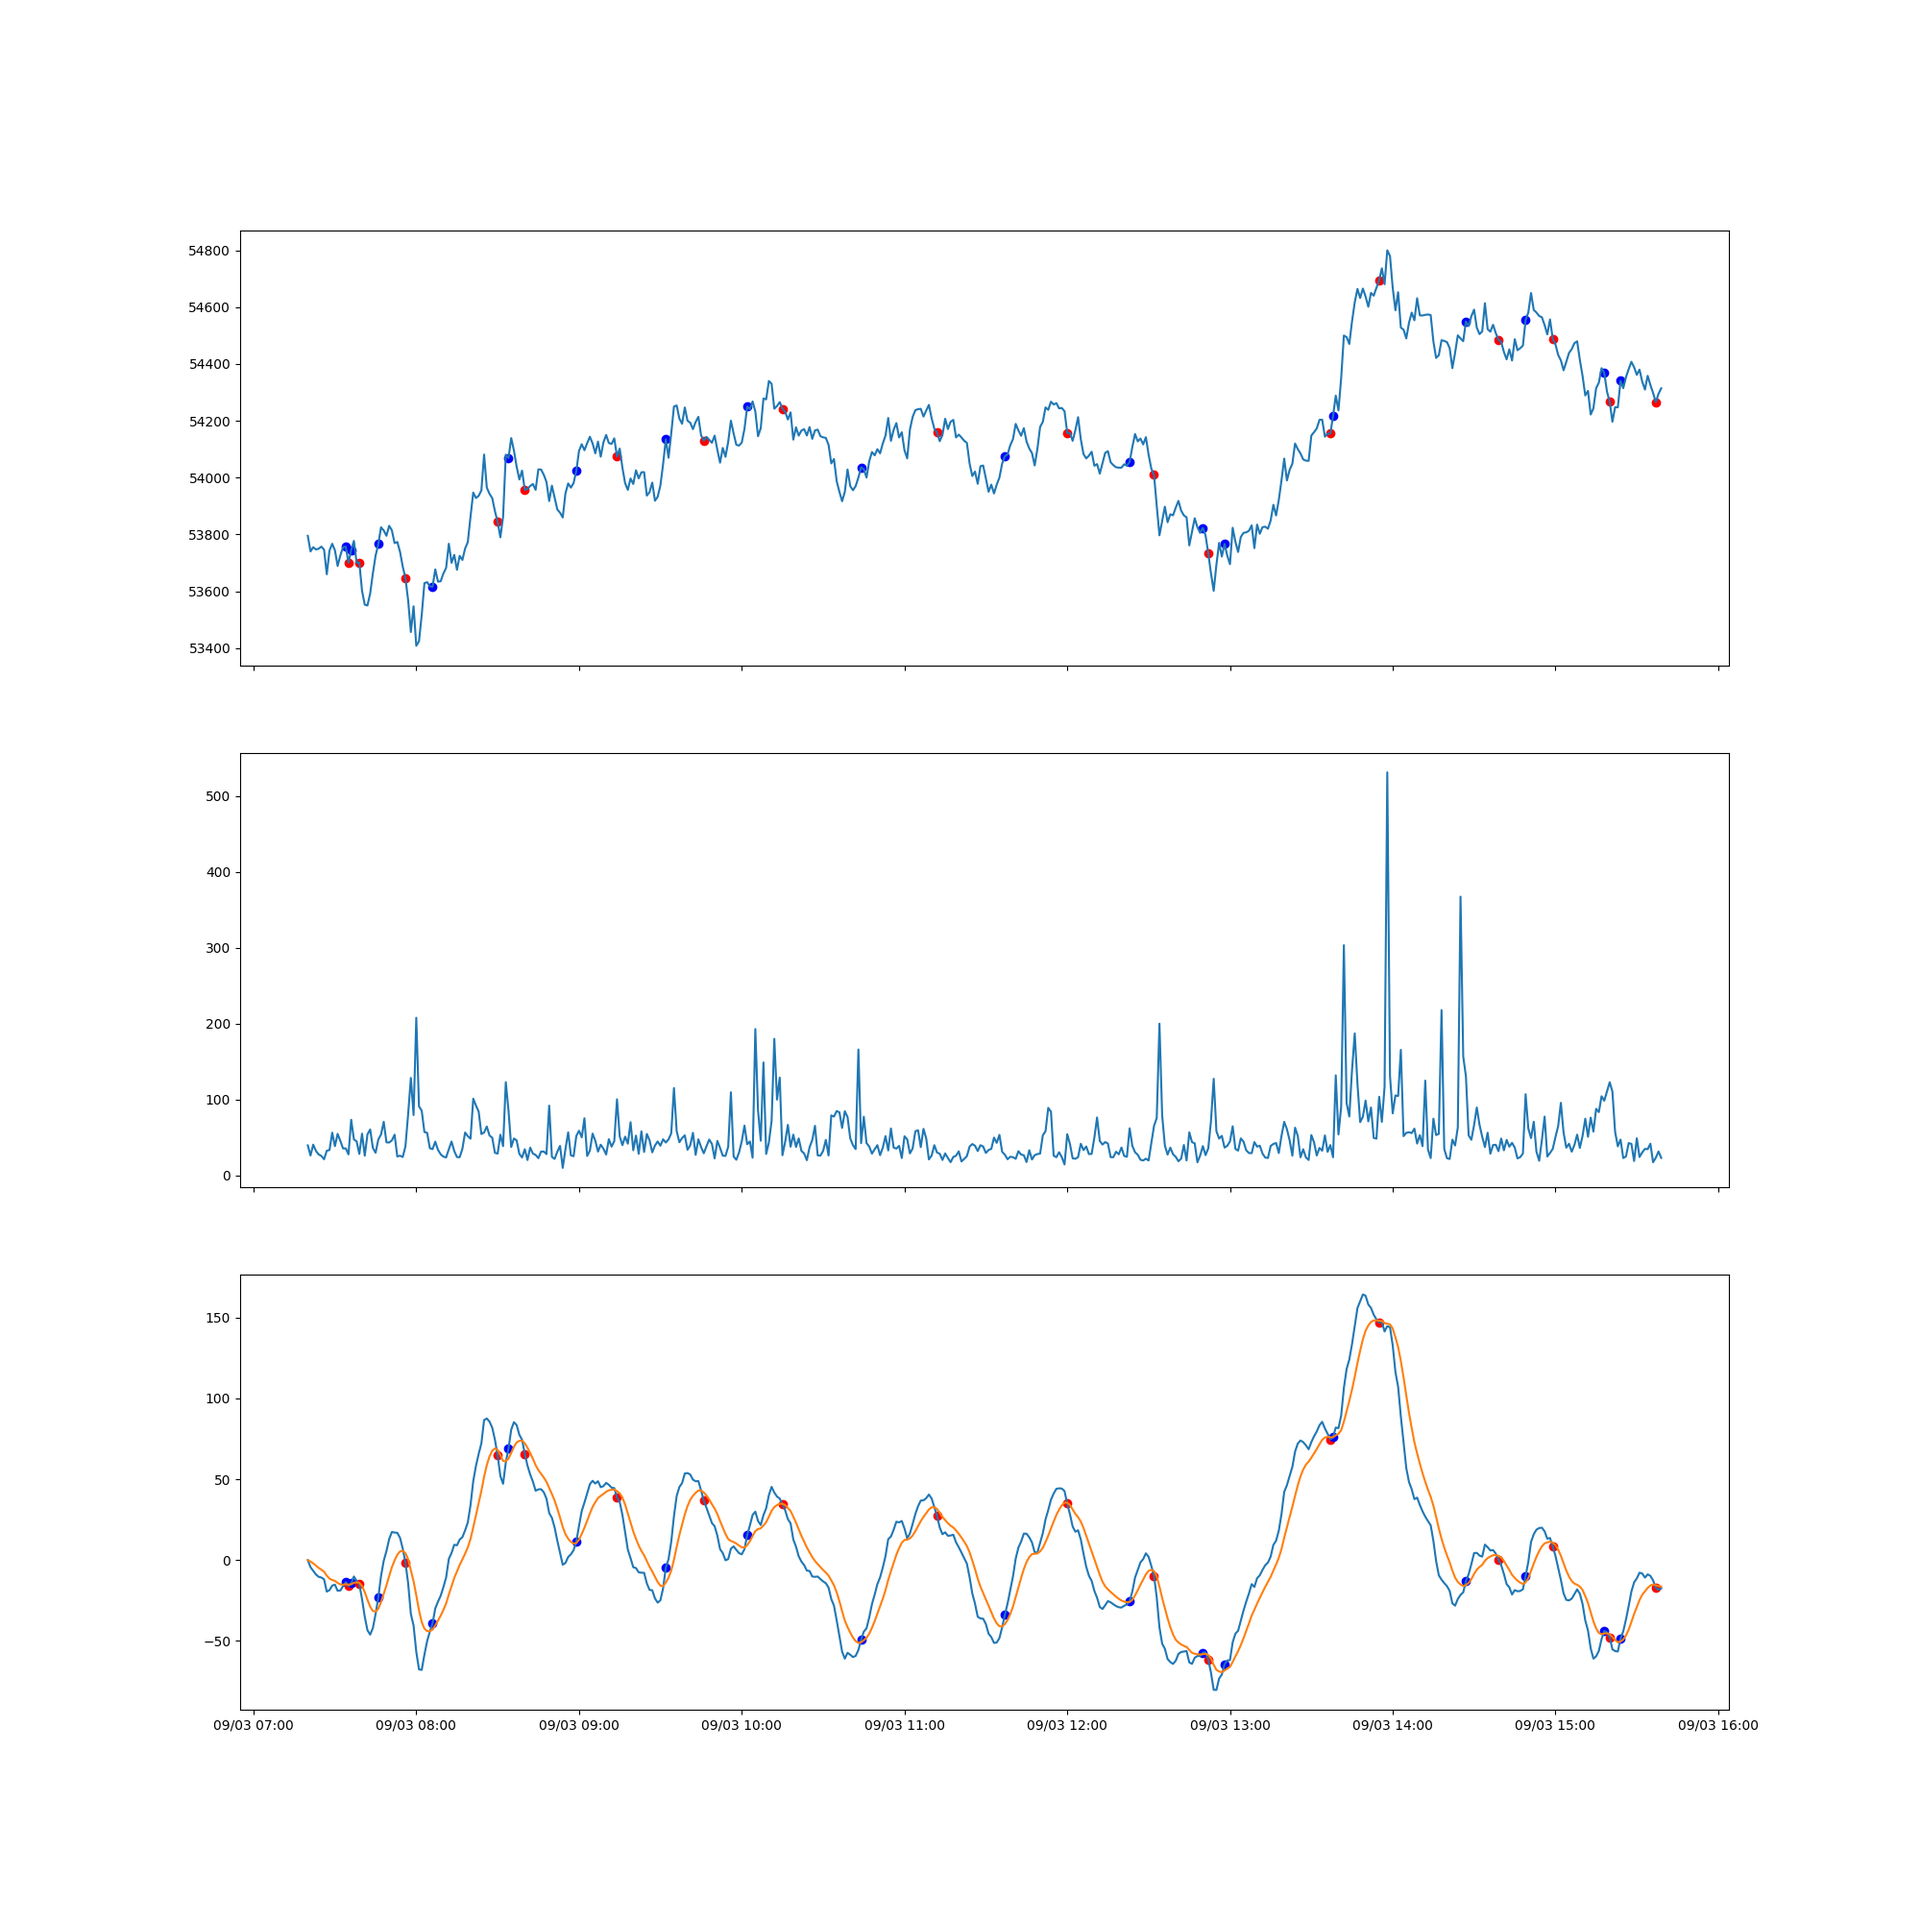
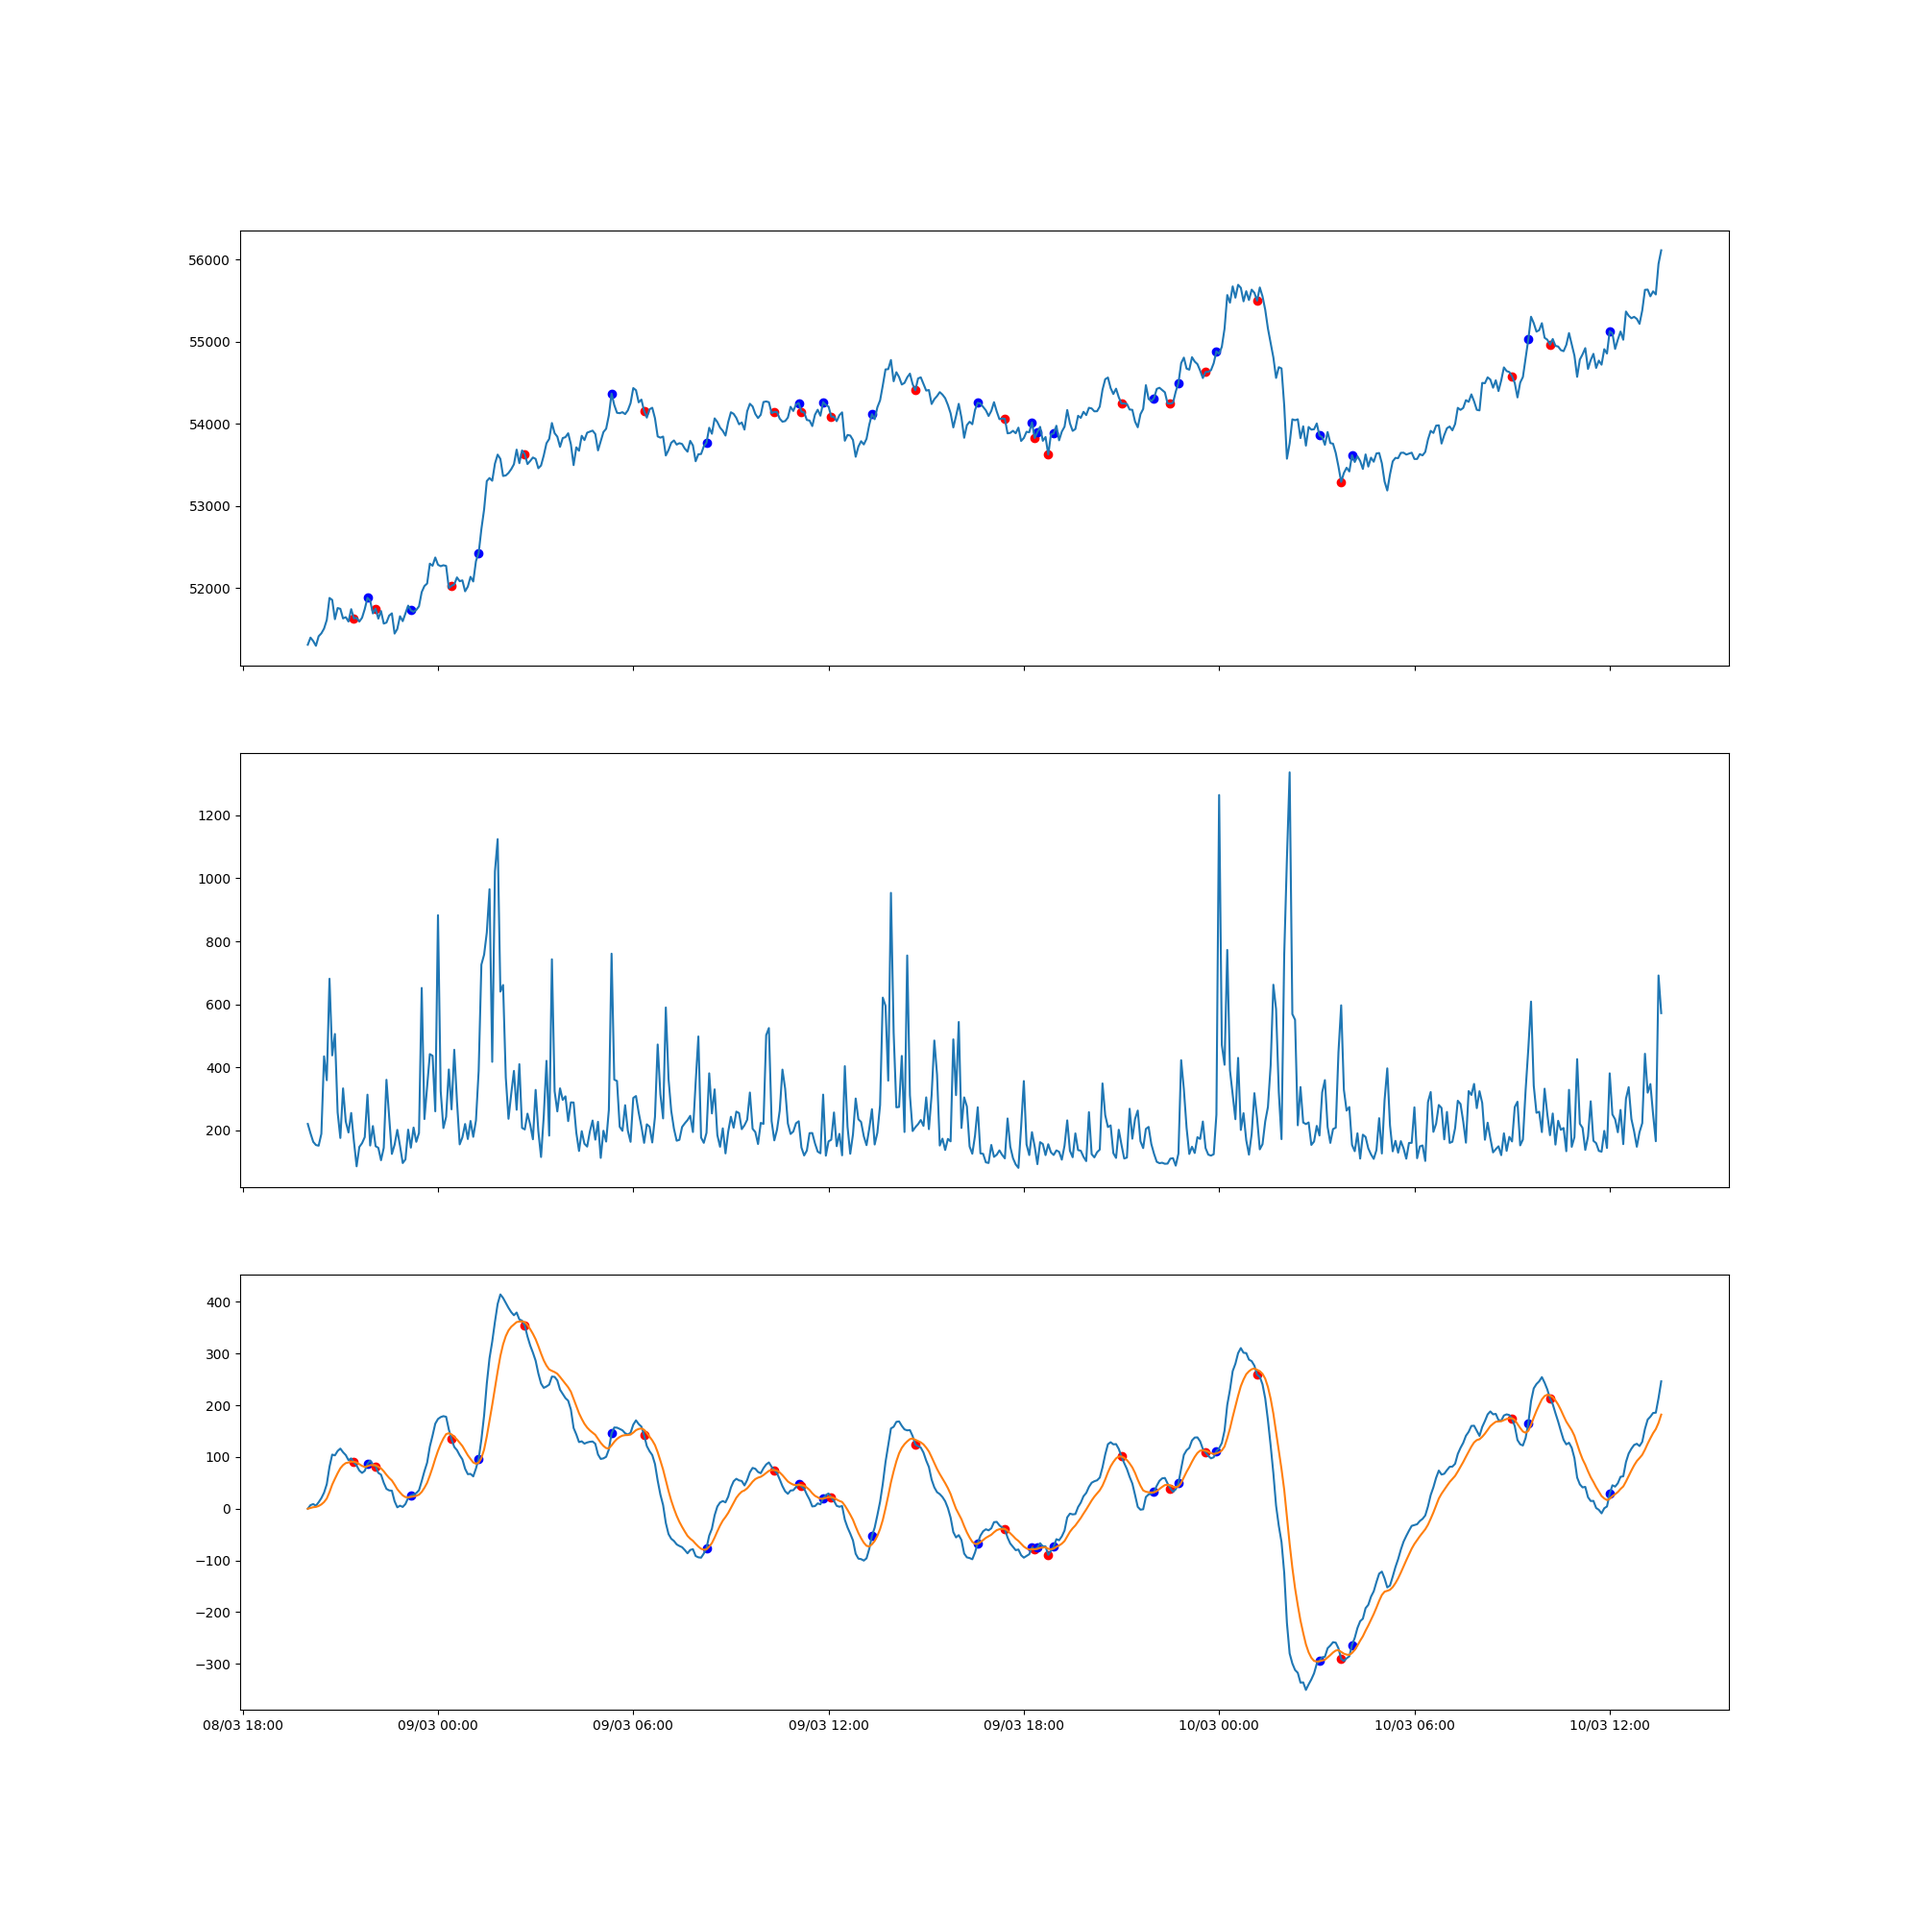
Main scripted fixed, now in 5 minutes and checking from second 10

diff --git a/src/main.py b/src/main.py
@@ -2,6 +2,7 @@ import crypto
 import twitter
 import datetime
 import pickle
+import time
 
 def set_last_buy_balance(value):
 	global last_buy_balance
@@ -17,7 +18,7 @@ def buy():
 	set_last_buy_balance(crypto.get_balance())
 	trade = crypto.buy()
 	print("💵 Bought $BTC@{:.2f}".format(trade['price']))
-	twitter.tweet("🤞 I bought {} $BTC for {:.2f}$ at {:.2f}$.\n💵 My current balance is {:.2f}$.".format(
+	twitter.tweet("🤞 I bought {} $BTC for {:.4f}$ at {:.2f}$.\n💵 My current balance is {:.2f}$.".format(
 		trade['amount'],
 		trade['cost'],
 		trade['price'],
@@ -36,7 +37,7 @@ def sell():
 	profit_percentage = profit / last_buy_balance * 100
 	if (profit > 0):
 		print("📈🚀 Profit: +{:.2f}$, +{:.2f}%".format(profit, profit_percentage))
-		twitter.tweet("🚀 I sold my $BTC at {}$ for {}$!\n📈 I won +{}$ (+{}%).\n💵 My current balance is {:.2f}$.".format(
+		twitter.tweet("🚀 I sold my $BTC at {:.2f}$ for {:.2f}$!\n📈 I won +{:.2f}$ (+{:.2f}%).\n💵 My current balance is {:.2f}$.".format(
 			trade['price'],
 			trade['cost'],
 			profit,
@@ -44,8 +45,8 @@ def sell():
 			balance
 		))
 	else:
-		print("📉😕 Loss: -{:.2f}$, -{:.2f}%".format(profit, profit_percentage))
-		twitter.tweet("😕 I sold my $BTC at {}$ for {}$!\n📉 I loss -{}$ (-{}%).\n💵 My current balance is {:.2f}$.".format(
+		print("📉😕 Loss: {:.2f}$, {:.2f}%".format(profit, profit_percentage))
+		twitter.tweet("😕 I sold my $BTC at {:.4f}$ for {:.4f}$!\n📉 I lost {:.2f}$ ({:.2f}%).\n💵 My current balance is {:.2f}$.".format(
 			trade['price'],
 			trade['cost'],
 			profit,
@@ -58,8 +59,9 @@ def check_macd():
 	global last_buy_balance
 
 	data = crypto.get_live_data()
-	should_buy = data.iloc[-1]['crossover_buy']
-	should_sell = data.iloc[-1]['crossover_sell']
+	print(data)
+	should_buy = data.iloc[-1]['crossover_buy'] or data.iloc[-2]['crossover_buy']
+	should_sell = data.iloc[-1]['crossover_sell'] or data.iloc[-2]['crossover_sell']
 	print("last_buy_balance", last_buy_balance)
 	print("should_buy", should_buy)
 	print("should_sell", should_sell)
@@ -71,20 +73,28 @@ def check_macd():
 		buy()
 	crypto.plot_data(data)
 
-print("ℹ Connecting to the exchange...")
+print("ℹ  Connecting to the exchange...")
 crypto.connect()
-print("ℹ Connecting to Twitter...")
+print("ℹ  Connecting to Twitter...")
 twitter.connect()
 print("✅ Connected to the exchange and Twitter")
 
 # Globals
 try:
 	last_buy_balance = pickle.load(open("./data/last_buy_balance.pickle", "rb"))
+	if (last_buy_balance != None):
+		print("❗ The script has been interrupted with an open position")
 except:
 	set_last_buy_balance(None)
 
+# sell()
+# exit()
+
 while True:
 	current_time = datetime.datetime.now()
-	if (current_time.second % 30 == 0 and current_time.minute % 1 == 0 and current_time.microsecond == 0):
-		print("ℹ Checking for {}".format(current_time))
-		check_macd()
+	if (current_time.second == 10 and current_time.minute % 1 == 0 and current_time.microsecond == 0):
+		while True:
+			current_time = datetime.datetime.now()
+			print("ℹ  Checking for {}".format(current_time))
+			check_macd()
+			time.sleep(80 - datetime.datetime.now().second)

diff --git a/src/crypto.py b/src/crypto.py
@@ -7,6 +7,7 @@ import ccxt
 import json
 import matplotlib.pyplot as plt
 import matplotlib.dates as mdates
+import time
 
 exchange = None
 
@@ -16,11 +17,21 @@ def connect():
 	exchange = ccxt.binance(creds['binance'])
 
 def get_balance():
-	return exchange.fetch_balance()['USDT']['total']
+	try:
+		return exchange.fetch_balance()['USDT']['total']
+	except:
+		print("❗ Unable to fetch balance, retrying in 10 seconds")
+		time.sleep(10)
+		return get_balance()
 
 def get_live_data():
-	# Fetch latest data
-	candles = np.array(exchange.fetch_ohlcv("BTC/USDT", '1m'))
+	try:
+		# Fetch latest data
+		candles = np.array(exchange.fetch_ohlcv("BTC/USDT", '5m'))
+	except:
+		print("❗ Unable to fetch live data, retrying in 10 seconds")
+		time.sleep(10)
+		return get_live_data()
 	
 	# Format data into a dataframe
 	data = pd.DataFrame()
@@ -75,8 +86,18 @@ def buy():
 	price = get_live_data().iloc[-1]['close']
 	amount = (balance * proportion) / price
 	amount = exchange.amount_to_precision("BTC/USDT", amount)
-	return exchange.create_market_buy_order("BTC/USDT", amount)
+	try:
+		return exchange.create_market_buy_order("BTC/USDT", amount)
+	except:
+		print("❗ Unable to buy, retrying in 10 seconds")
+		time.sleep(10)
+		return buy()
 
 def sell():
 	balance = exchange.fetch_balance()['BTC']['total']
-	return exchange.create_market_sell_order("BTC/USDT", balance)
+	try:
+		return exchange.create_market_sell_order("BTC/USDT", balance)
+	except:
+		print("❗ Unable to sell, retrying in 10 seconds")
+		time.sleep(10)
+		return sell()
